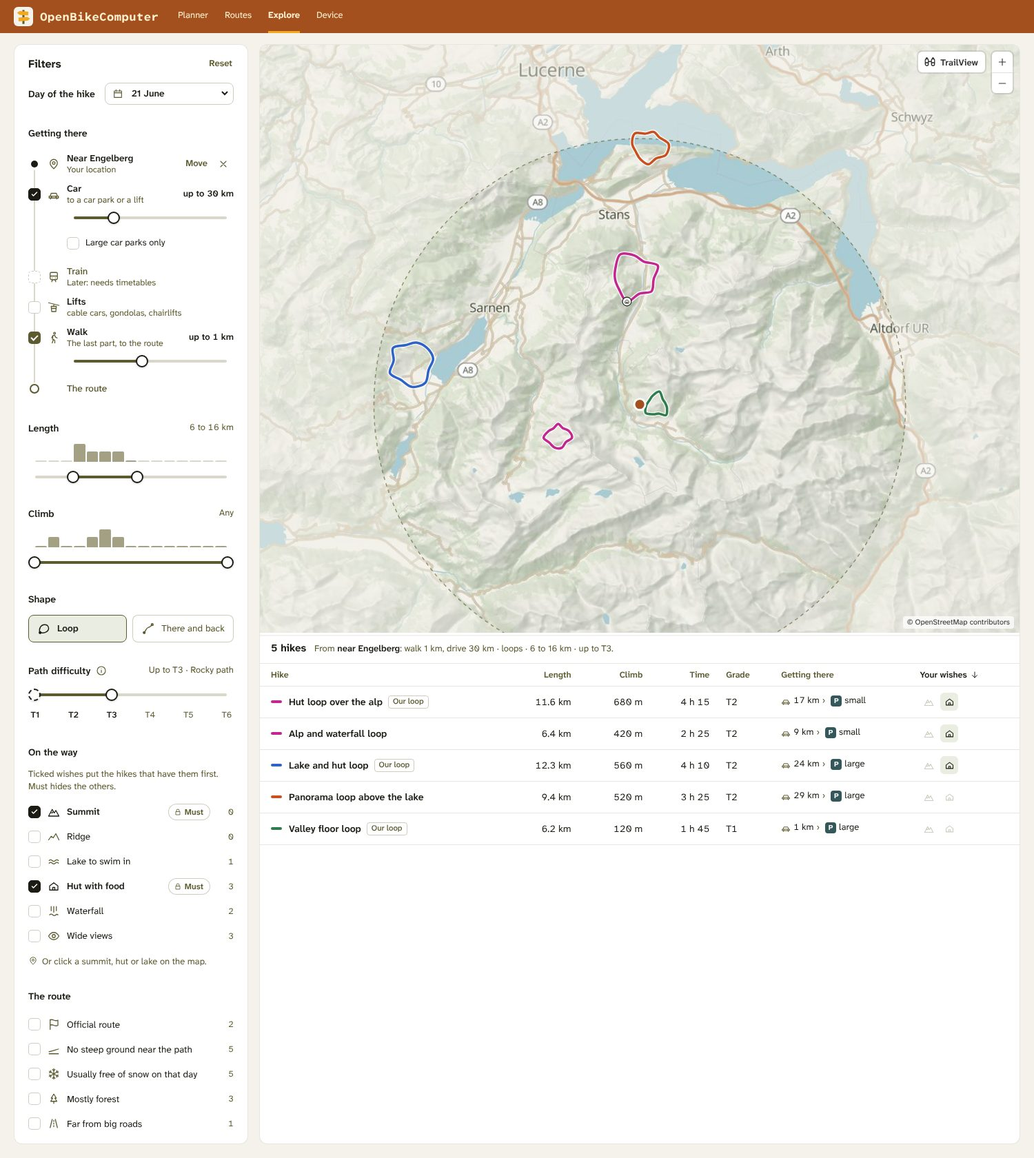
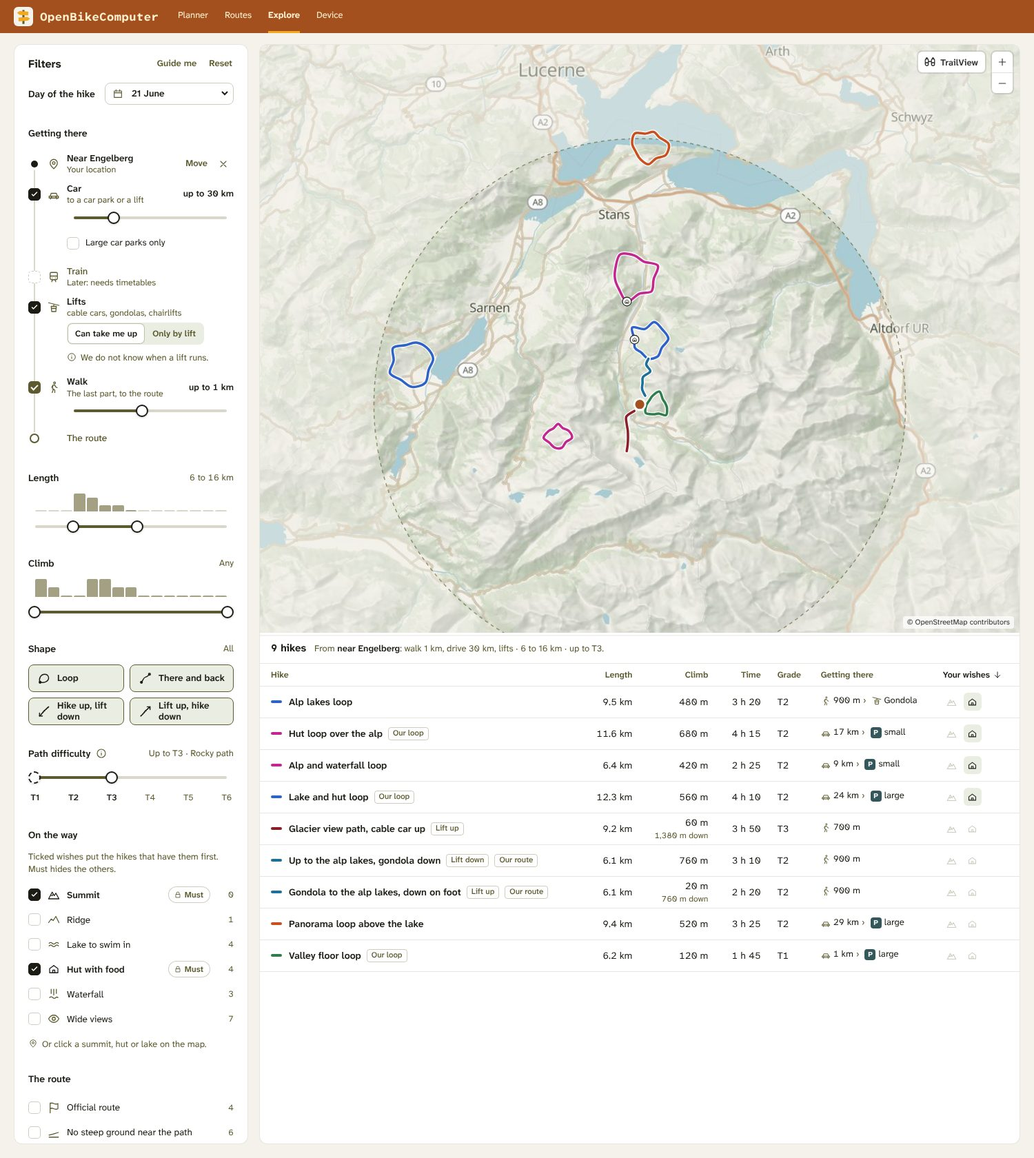
prototype: route shapes with lifts, and a guide that asks the filters one question at a time (#3703)
Claude-Session: https://claude.ai/code/session_011wmjvJHELXXkiSsQom1LXN

diff --git a/builder/web/prototype-explore-search/engine.js b/builder/web/prototype-explore-search/engine.js
@@ -54,7 +54,21 @@ const HIKES = [
     { id: 16, n: 'Alp lakes loop', made: 0, km: 9.5, up: 480, t: 2, alt: 2050, p: 0, asph: 0, f: 'loop lake hut views safe', snow: [day(20, 6), day(15, 10)], x: 603, y: 640, dir: -90, c: '#2f62c9', img: 9 },
     { id: 17, n: 'Glacier view ridge loop', made: 0, km: 11.8, up: 940, t: 4, alt: 2450, p: 0, asph: 0, f: 'loop peak ridge views quiet', snow: [day(5, 7), day(30, 9)], x: 583, y: 725, dir: 100, c: '#0d6e74', img: 8 },
     { id: 18, n: 'Gorge walk, there and back', made: 0, km: 5.0, up: 210, t: 2, alt: 1210, p: 0, asph: 5, f: 'waterfall forest', snow: [day(15, 4), day(15, 11)], x: 612, y: 690, dir: 20, c: '#6a3fb0', img: 5 },
+    // Routes with a lift for one half: the path runs from the valley station to the top station. `same` shares the line of another
+    // record, because one path gives two shapes with different numbers: hike up and ride down, or ride up and hike down.
+    { id: 19, n: 'Up to Alp Oberberg, cable car down', made: 1, shape: 'liftDown', lr: 'l1', km: 5.4, up: 820, down: 30, t: 2, alt: 1650, p: 60, pn: 'Oberberg valley station', asph: 6, f: 'hut views', snow: [day(10, 5), day(5, 11)], x: 468, y: 418, to: [4, 8], c: '#5a7d1e', img: 3 },
+    { id: 20, n: 'Cable car to Alp Oberberg, down on foot', made: 1, shape: 'liftUp', lr: 'l1', same: 19, km: 5.4, up: 30, down: 820, t: 2, alt: 1650, p: 0, asph: 6, f: 'hut views', snow: [day(10, 5), day(5, 11)], x: 468, y: 418, to: [4, 8], c: '#5a7d1e', img: 3 },
+    { id: 21, n: 'Up to the alp lakes, gondola down', made: 1, shape: 'liftDown', lr: 'l2', km: 6.1, up: 760, down: 20, t: 2, alt: 1840, p: 0, asph: 3, f: 'lake views', snow: [day(5, 6), day(25, 10)], x: 600, y: 674, to: [16, 0], c: '#1e6f9a', img: 9 },
+    { id: 22, n: 'Gondola to the alp lakes, down on foot', made: 1, shape: 'liftUp', lr: 'l2', same: 21, km: 6.1, up: 20, down: 760, t: 2, alt: 1840, p: 0, asph: 3, f: 'lake views', snow: [day(5, 6), day(25, 10)], x: 600, y: 674, to: [16, 0], c: '#1e6f9a', img: 9 },
+    { id: 23, n: 'Glacier view path, cable car up', made: 0, shape: 'liftUp', lr: 'l3', km: 9.2, up: 60, down: 1380, t: 3, alt: 2420, p: 0, asph: 0, f: 'views ridge waterfall quiet', snow: [day(1, 7), day(30, 9)], x: 590, y: 688, to: [17, 0], c: '#8c1d2b', img: 8 },
 ];
+// The shapes a rider can accept. The lift shapes count only while Lifts is ticked.
+const SHAPES = {
+    loop: { label: 'Loop', tag: '' },
+    back: { label: 'There and back', tag: 'There and back' },
+    liftDown: { label: 'Hike up, lift down', tag: 'Lift down', lift: true },
+    liftUp: { label: 'Lift up, hike down', tag: 'Lift up', lift: true },
+};
 const HIKE = Object.fromEntries(HIKES.map(h => [h.id, h]));
 const LIFTS = [
     { id: 'l1', name: 'Cable car to Alp Oberberg', short: 'Cable car', valley: { x: 468, y: 418 }, on: [4, 8] },
@@ -94,18 +108,19 @@ const GRADES = [
 ];
 const KM = { step: 2, steps: 15, unit: 'km' }, UP = { step: 100, steps: 15, unit: 'm' };
 for (const h of HIKES) {
-    h.min = Math.round((h.km / 4.2 + h.up / 450) * 12) * 5;
+    h.min = Math.round((h.km / 4.2 + h.up / 450 + (h.down || 0) / 900) * 12) * 5;
     h.time = Math.floor(h.min / 60) + ' h' + (h.min % 60 ? ' ' + String(h.min % 60).padStart(2, '0') : '');
     h.loop = h.f.split(' ').includes('loop');
+    h.shape = h.shape || (h.loop ? 'loop' : 'back');
 }
 
 // ── State ───────────────────────────────────────────────────────────────────
 const fresh = () => ({ date: day(21, 6), point: null, walk: 4, car: false, road: 30, large: false, lift: 0, pin: null,
-    km: [3, 8], up: [0, 15], loop: true, back: false, gradeMin: 1, gradeMax: 3, sort: 'match', wish: { peak: 1, hut: 1 }, selected: null, hover: null });
-const STORE = 'explore-mock-2';
+    km: [3, 8], up: [0, 15], loop: true, back: true, liftDown: true, liftUp: true, gradeMin: 1, gradeMax: 3, sort: 'match', wish: { peak: 1, hut: 1 }, selected: null, hover: null });
+const STORE = 'explore-mock-3';
 let state = fresh();
 try { const saved = JSON.parse(localStorage.getItem(STORE) || 'null'); if (saved && saved.wish) state = { ...fresh(), ...saved, hover: null }; } catch (e) { /* The mock works without storage. */ }
-const QUERY_KEYS = ['date', 'point', 'walk', 'car', 'road', 'large', 'lift', 'pin', 'km', 'up', 'loop', 'back', 'gradeMin', 'gradeMax', 'wish'];
+const QUERY_KEYS = ['date', 'point', 'walk', 'car', 'road', 'large', 'lift', 'pin', 'km', 'up', 'loop', 'back', 'liftDown', 'liftUp', 'gradeMin', 'gradeMax', 'wish'];
 const isFresh = () => { const f = fresh(); return QUERY_KEYS.every(k => JSON.stringify(f[k]) === JSON.stringify(state[k])); };
 let picking = false;
 const reduced = matchMedia('(prefers-reduced-motion: reduce)').matches;
@@ -113,6 +128,7 @@ const reduced = matchMedia('(prefers-reduced-motion: reduce)').matches;
 // ── Lines of the sample hikes, measured once ────────────────────────────────
 function rand(seed) { let x = seed * 9301 + 49297; return () => (x = (x * 9301 + 49297) % 233280) / 233280; }
 function linePath(h) {
+    if (h.same) { h.pts = HIKE[h.same].pts; return HIKE[h.same].d; }
     const r = rand(h.id), pts = [];
     if (h.to) {
         const end = HIKE[h.to[0]].pts[h.to[1]], len = Math.hypot(end[0] - h.x, end[1] - h.y), a0 = Math.atan2(end[1] - h.y, end[0] - h.x), n = 7;
@@ -183,7 +199,7 @@ function access(h, s = state) {
         return out;
     }
     if (!s.point) return [{ kind: 'any', cost: 0 }];
-    const o = s.point, onlyLift = s.lift === 2;
+    const o = s.point, onlyLift = s.lift === 2 && !h.lr;
     if (!onlyLift) {
         const d = walkFrom(h, o);
         if (d <= W) out.push({ kind: 'foot', walk: d, cost: d * 4 });
@@ -192,7 +208,7 @@ function access(h, s = state) {
             if (road <= s.road && (!s.large || isLarge(n.park)) && n.walk <= W) out.push({ kind: 'car', park: n.park, road, walk: n.walk, cost: road + n.walk * 4 });
         }
     }
-    if (s.lift) for (const n of h.lifts) {
+    if (s.lift && !h.lr) for (const n of h.lifts) {
         if (n.walk > W) continue;
         const dv = km(o, n.lift.valley);
         if (dv <= W) out.push({ kind: 'lift', lift: n.lift, by: 'foot', before: dv, walk: n.walk, cost: (dv + n.walk) * 4 + 1 });
@@ -209,9 +225,11 @@ function has(h, key, s = state) {
 }
 const wishLabel = (k, s = state, long) => k === 'reach' ? `Has a T${s.gradeMin} part` : k.startsWith('via:') ? `Passes ${PLACE[k.slice(4)].name}` : (!long && WISH[k].short) || WISH[k].label;
 const wishIcon = k => k === 'reach' ? 'up' : k.startsWith('via:') ? PLACE[k.slice(4)].kind : WISH[k].icon;
+const shapeOk = (h, s = state) => s[h.shape] && (!SHAPES[h.shape].lift || !!s.lift);
+const shapesOn = (s = state) => Object.keys(SHAPES).filter(k => s[k] && (!SHAPES[k].lift || s.lift));
 const top = (range, scale) => range[1] >= scale.steps ? Infinity : range[1] * scale.step;
 function inLimits(h, s, skip) {
-    if (h.t > s.gradeMax || !(h.loop ? s.loop : s.back)) return false;
+    if (h.t > s.gradeMax || !shapeOk(h, s)) return false;
     if (skip !== 'km' && (h.km < s.km[0] * KM.step || h.km > top(s.km, KM))) return false;
     if (skip !== 'up' && (h.up < s.up[0] * UP.step || h.up > top(s.up, UP))) return false;
     return true;
@@ -373,15 +391,27 @@ const GROUPS = {
     km(el) { return rangeGroup(el, 'km', 'Length', KM, ['Shortest length', 'Longest length']); },
     up(el) { return rangeGroup(el, 'up', 'Climb', UP, ['Least climb', 'Most climb']); },
     shape(el) {
+        const loopIco = '<svg class="i" width="20" height="20" viewBox="0 0 24 24" aria-hidden="true"><path d="M5 19c-3-6 1-14 8-14s9 8 4 12-9 2-12 2Z"/><circle cx="5" cy="19" r="1.7" fill="currentColor"/></svg>';
+        const backIco = '<svg class="i" width="20" height="20" viewBox="0 0 24 24" aria-hidden="true"><path d="M5 19c3-3 3-8 7-9s5-3 7-5"/><circle cx="5" cy="19" r="1.7" fill="currentColor"/><circle cx="19" cy="5" r="1.7"/></svg>';
+        // A lift shape: the walked half is solid, the ride is dotted, so the picture says which half the lift takes.
+        const liftIco = up => `<svg class="i" width="20" height="20" viewBox="0 0 24 24" aria-hidden="true"><path d="M4 20c4-2 6-8 9-10s4-4 7-6"/><path d="M4 20 20 4" stroke-dasharray="1.5 2.5"/><path d="${up ? 'M15 4h5v5' : 'M4 15v5h5'}"/></svg>`;
         el.innerHTML = head('Shape') + `<div class="tiles">
-            <button type="button" class="tile" data-shape="loop"><svg class="i" width="20" height="20" viewBox="0 0 24 24" aria-hidden="true"><path d="M5 19c-3-6 1-14 8-14s9 8 4 12-9 2-12 2Z"/><circle cx="5" cy="19" r="1.7" fill="currentColor"/></svg>Loop</button>
-            <button type="button" class="tile" data-shape="back"><svg class="i" width="20" height="20" viewBox="0 0 24 24" aria-hidden="true"><path d="M5 19c3-3 3-8 7-9s5-3 7-5"/><circle cx="5" cy="19" r="1.7" fill="currentColor"/><circle cx="19" cy="5" r="1.7"/></svg>There and back</button></div>`;
+            <button type="button" class="tile" data-shape="loop">${loopIco}Loop</button>
+            <button type="button" class="tile" data-shape="back">${backIco}There and back</button>
+            <button type="button" class="tile lift-shape" data-shape="liftDown">${liftIco(false)}Hike up, lift down</button>
+            <button type="button" class="tile lift-shape" data-shape="liftUp">${liftIco(true)}Lift up, hike down</button></div>
+            <p class="hint" data-lift-hint>${icon('lift', 14)}Tick Lifts in Getting there to also see hikes that ride a lift up or down.</p>`;
         el.addEventListener('click', e => {
             const t = e.target.closest('[data-shape]'); if (!t) return;
-            const k = t.dataset.shape, o = k === 'loop' ? 'back' : 'loop';
-            update(state[k] && !state[o] ? { [k]: false, [o]: true } : { [k]: !state[k] });
+            const k = t.dataset.shape, next = { ...state, [k]: !state[k] };
+            if (!shapesOn(next).length) return toast('Keep at least one shape.');
+            update({ [k]: next[k] });
         });
-        return () => { for (const t of el.querySelectorAll('[data-shape]')) t.setAttribute('aria-pressed', state[t.dataset.shape]); };
+        return () => {
+            for (const t of el.querySelectorAll('[data-shape]')) { t.setAttribute('aria-pressed', state[t.dataset.shape]); t.hidden = SHAPES[t.dataset.shape].lift && !state.lift; }
+            el.querySelector('[data-lift-hint]').hidden = !!state.lift;
+            el.querySelector('.val').textContent = shapesOn().length === (state.lift ? 4 : 2) ? 'All' : '';
+        };
     },
     grade: gradeGroup,
     way(el) {
@@ -462,13 +492,75 @@ function mountFilters(el) {
     }
 }
 
+// ── The guide: the same filter groups, one question at a time ──────────────
+// The guide mounts its own copy of each group, so an answer sets the same state as the filter column, and the map and the
+// results change while the rider answers. A rider can skip any question, go back, or close the guide at any step.
+const STEPS = [
+    { groups: ['day'], q: 'When do you go?', why: 'The day decides which hikes are usually free of snow.' },
+    { groups: ['journey'], q: 'How do you get to the start?', why: 'Set where you start, then tick each way you are happy to travel.' },
+    { groups: ['shape'], q: 'Which shapes are fine?', why: 'Pick every shape you would walk. A there-and-back hike counts its length and climb both ways.' },
+    { groups: ['km', 'up'], q: 'How long, and how much climb?', why: 'The bars show how many hikes each step holds, inside your other answers.' },
+    { groups: ['grade'], q: 'How hard may the path be?', why: 'The right handle is the hardest grade you accept. Move the left handle to ask for a harder part. Hover or tap a grade to see it.' },
+    { groups: ['way'], q: 'What would make it a good day?', why: 'Pick what you hope to pass on the way.' },
+    { groups: ['route'], q: 'Anything about the route itself?', why: 'For example, a route that is usually free of snow on your day.' },
+];
+function mountGuide(side, filters, opener) {
+    const g = document.createElement('section');
+    g.className = 'guide'; g.hidden = true; g.setAttribute('aria-label', 'Plan your hike, one question at a time');
+    g.innerHTML = `<div class="guide-top"><span class="guide-step" aria-live="polite"></span><span class="guide-dots" aria-hidden="true">${STEPS.map(() => '<i></i>').join('')}</span><button type="button" class="close" data-guide-close aria-label="Close the guide">${icon('close', 16)}</button></div>
+        <div class="guide-body scroll">${STEPS.map((st, i) => `<div class="guide-page" data-page="${i}" hidden><h3>${st.q}</h3><p class="hint">${st.why}</p><div class="filters"></div></div>`).join('')}</div>
+        <div class="guide-foot"><button type="button" class="text-button" data-guide-back>Back</button><span class="guide-count"></span><button type="button" class="text-button" data-guide-skip>Skip</button><button type="button" class="button primary" data-guide-next></button></div>`;
+    side.append(g);
+    STEPS.forEach((st, i) => {
+        const box = g.querySelector(`[data-page="${i}"] .filters`);
+        for (const name of st.groups) { const el = document.createElement('section'); el.className = 'group'; el.dataset.group = name; box.append(el); syncs.push(GROUPS[name](el)); }
+    });
+    // The offer at the top of the column, while the filters hold nothing of the rider's own.
+    const offer = document.createElement('div');
+    offer.className = 'guide-offer';
+    offer.innerHTML = `<p><b>New search?</b> Seven short questions set the filters for you. Skip any of them.</p><button type="button" class="button small" data-guide-open>${icon('walk', 14)}Guide me</button>`;
+    filters.prepend(offer);
+    let step = -1;
+    const show = i => {
+        step = i; g.hidden = i < 0; side.classList.toggle('guided', i >= 0);
+        if (i < 0) return opener.focus();
+        for (const p of g.querySelectorAll('.guide-page')) p.hidden = +p.dataset.page !== i;
+        [...g.querySelector('.guide-dots').children].forEach((dot, j) => dot.className = j < i ? 'done' : j === i ? 'now' : '');
+        g.querySelector('.guide-step').textContent = `Question ${i + 1} of ${STEPS.length}`;
+        g.querySelector('[data-guide-back]').disabled = i === 0;
+        g.querySelector('[data-guide-skip]').hidden = i === STEPS.length - 1;
+        g.querySelector('.guide-body').scrollTop = 0;
+        sync(find());
+        g.querySelector('h3:not([hidden])') && g.querySelector(`[data-page="${i}"] h3`).focus({ preventScroll: true });
+    };
+    const sync = found => {
+        offer.hidden = !isFresh();
+        if (step < 0) return;
+        g.querySelector('.guide-count').textContent = `${countText(found.length)} fit so far`;
+        g.querySelector('[data-guide-next]').textContent = step === STEPS.length - 1 ? `Show ${countText(found.length)}` : 'Next';
+    };
+    for (const h of g.querySelectorAll('h3')) h.tabIndex = -1;
+    syncs.push(sync);
+    document.addEventListener('click', e => {
+        if (e.target.closest('[data-guide-open]')) return show(0);
+        if (step < 0 || !g.contains(e.target)) return;
+        if (e.target.closest('[data-guide-close]')) return show(-1);
+        if (e.target.closest('[data-guide-back]')) return show(Math.max(0, step - 1));
+        if (e.target.closest('[data-guide-skip]')) return show(step + 1);
+        if (e.target.closest('[data-guide-next]')) return show(step === STEPS.length - 1 ? -1 : step + 1);
+    });
+    g.addEventListener('keydown', e => { if (e.key === 'Escape' && !e.defaultPrevented) show(-1); });
+    return { open: () => show(0) };
+}
+
 // ── One plain line that says what the search holds ─────────────────────────
 function queryHtml() {
     const parts = [];
     if (state.pin) parts.push(`From <b>${pinName(state, true)}</b>, walk ${dist(WALK[state.walk])}`);
     else if (state.point) parts.push(`From <b>near ${townNear(state.point)}</b>: ` + [`walk ${dist(WALK[state.walk])}`, state.car && `drive ${state.road} km`, state.lift === 2 ? 'by lift only' : state.lift && 'lifts'].filter(Boolean).join(', '));
     else parts.push('In the map view');
-    parts.push(state.loop && state.back ? 'loops or there and back' : state.loop ? 'loops' : 'there and back');
+    const shapes = shapesOn();
+    if (shapes.length < (state.lift ? 4 : 2)) parts.push(shapes.map(k => SHAPES[k].label.toLowerCase()).join(' or '));
     if (state.km[0] > 0 || state.km[1] < 15) parts.push(rangeText(state.km, KM).toLowerCase());
     if (state.up[0] > 0 || state.up[1] < 15) parts.push(rangeText(state.up, UP).toLowerCase() + ' up');
     parts.push('up to T' + state.gradeMax);
@@ -498,11 +590,20 @@ function emptyHtml() {
         if (!state.lift) tries.push(['Take lifts', { lift: 1 }]);
     }
     if (state.pin) tries.push(['Unpin the start', { pin: null }]);
+    for (const k of Object.keys(SHAPES)) if (!state[k] && (!SHAPES[k].lift || state.lift)) tries.push([`${SHAPES[k].label} too`, { [k]: true }]);
     const ways = tries.map(([text, change]) => [text, change, find({ ...state, ...change }).length]).filter(t => t[2]);
     emptyTries = ways.map(t => t[1]);
     return `<div class="empty"><strong>No hike fits all of this.</strong>${ways.length ? `<span>One change would help:</span><div>${ways.map(([text, , n], i) => `<button type="button" class="button small" data-try="${i}">${text}<span class="n">${countText(n)}</span></button>`).join('')}</div>` : '<span>Widen the length or the climb.</span>'}<button type="button" class="text-button" data-reset>Reset the filters</button></div>`;
 }
 const tagsHtml = r => [...r.met.map(k => `<span class="tag">${icon('check', 12)}${wishLabel(k)}</span>`), ...r.missed.map(k => `<span class="tag no">${icon('close', 11)}${wishLabel(k)}</span>`)].join('');
+// What the shape means for the rider, with the numbers that the table does not show.
+function shapeText(h) {
+    const lift = h.lr && LIFT[h.lr].short.toLowerCase();
+    if (h.shape === 'back') return `There and back, ${fmt(Math.round(h.km / 2 * 10) / 10)} km each way; length and climb count both ways`;
+    if (h.shape === 'liftDown') return `Hike up ${fmt(h.up)} m, then the ${lift} down; park at the valley station`;
+    if (h.shape === 'liftUp') return `The ${lift} up, then hike down ${fmt(h.down)} m; park at the valley station`;
+    return 'Loop';
+}
 function detailHtml(r) {
     const h = r.h, prof = profilePath(h), safe = has(h, 'safe'), year = h.snow[0] === 1 && h.snow[1] === 365, a = r.acc[0];
     const trail = a.park || a.lift ? a : !state.pin && a.kind === 'any' ? (parkAt(h) && { park: parkAt(h).park }) || (liftAt(h) && { lift: liftAt(h).lift }) : null;
@@ -510,7 +611,7 @@ function detailHtml(r) {
     return `<div class="more-box">
         <div class="cover"><img src="img/h${h.img || h.id}.webp" alt="" loading="lazy" onerror="this.hidden=true"></div>
         <div class="col">
-            <p class="kind">${h.loop ? 'Loop' : 'There and back'} · ${h.made ? 'Our loop, made from signed hiking paths' : 'Official hiking route'}</p>
+            <p class="kind">${shapeText(h)} · ${h.made ? `Our ${h.loop ? 'loop' : 'route'}, made from signed hiking paths` : 'Official hiking route'}</p>
             <p class="how">${accessText(a, h)}.</p>
             ${pinFrom ? `<button type="button" class="button small" data-pin='${JSON.stringify(pinFrom)}'>${icon('pin', 14)}Hikes from this ${pinFrom.kind === 'park' ? 'car park' : 'top station'}</button>` : ''}
             ${r.met.length + r.missed.length ? `<div class="tags">${tagsHtml(r)}</div>` : ''}
@@ -626,6 +727,7 @@ function renderMap(found) {
         if (a.park) parks.add(a.park.id);
         if (a.lift) lifts.add(a.lift.id);
         if (a.kind === 'any') { const n = parkAt(r.h); if (n) parks.add(n.park.id); for (const l of r.h.lifts) if (l.walk <= W) lifts.add(l.lift.id); }
+        if (r.h.lr) lifts.add(r.h.lr);
     }
     const hotAcc = hotRow?.acc[0], hotTrail = hotAcc && (hotAcc.park?.id || hotAcc.lift?.id || (hotAcc.kind === 'any' && (parkAt(hotRow.h)?.park.id || liftAt(hotRow.h)?.lift.id)));
     const level = (id, used) => state.pin?.id === id ? 'pin' : hotTrail === id ? 'hot' : used ? 'quiet' : 'hide';
@@ -718,6 +820,6 @@ function fitMap(found, at, r) {
 
 return {
     get state() { return state; }, update, render, reset, isFresh, set page(p) { page = { ...page, ...p }; },
-    icon, fmt, accessSteps, wishLabel, wishIcon, niceWishes, queryHtml, countText, mountFilters, mountMap, detailHtml, hover, emptyHtml,
+    icon, fmt, shapeTag: h => SHAPES[h.shape].tag, accessSteps, wishLabel, wishIcon, niceWishes, queryHtml, countText, mountFilters, mountGuide, mountMap, detailHtml, hover, emptyHtml,
 };
 })();

diff --git a/builder/web/prototype-explore-search/index.html b/builder/web/prototype-explore-search/index.html
@@ -16,7 +16,7 @@
 <main class="page">
     <h1 class="sr">Explore day hikes</h1>
     <section class="side" aria-labelledby="filters-title">
-        <div class="side-top"><h2 id="filters-title">Filters</h2><button type="button" class="text-button" id="reset">Reset</button></div>
+        <div class="side-top"><h2 id="filters-title">Filters</h2><span class="side-acts"><button type="button" class="text-button" id="guide">Guide me</button><button type="button" class="text-button" id="reset">Reset</button></span></div>
         <div class="scroll"><div class="filters" id="filters"></div></div>
         <button type="button" class="button primary show-results" id="show"></button>
     </section>
@@ -47,6 +47,8 @@
 const $ = id => document.getElementById(id);
 const { icon, fmt } = OBC;
 OBC.mountFilters($('filters'));
+const guide = OBC.mountGuide(document.querySelector('.side'), $('filters'), $('guide'));
+$('guide').addEventListener('click', guide.open);
 OBC.mountMap($('map'));
 for (const b of document.querySelectorAll('[data-sort]')) b.insertAdjacentHTML('beforeend', icon('down', 14));
 
@@ -78,8 +80,8 @@ OBC.page = {
         $('rows').innerHTML = found.length ? found.map(r => {
             const h = r.h, open = s.selected === h.id;
             return `<tr class="hike-row${open ? ' open' : ''}" data-id="${h.id}"${s.hover === h.id ? ' data-hover' : ''}>
-                <td><button type="button" class="name" aria-expanded="${open}"><span class="swatch" style="--c:${h.c}"></span><span class="nm"><strong>${h.n}</strong>${h.made ? '<span class="ours">Our loop</span>' : ''}<span class="sub"><span>T${h.t} · ${h.time}</span><span class="acc">${steps(r)}</span></span></span></button></td>
-                <td class="num">${h.km} km<span class="up">${fmt(h.up)} m up</span></td><td class="num c-climb">${fmt(h.up)} m</td><td class="num c-time">${h.time}</td><td class="c-grade">T${h.t}</td>
+                <td><button type="button" class="name" aria-expanded="${open}"><span class="swatch" style="--c:${h.c}"></span><span class="nm"><strong>${h.n}</strong>${OBC.shapeTag(h) ? `<span class="ours">${OBC.shapeTag(h)}</span>` : ''}${h.made ? `<span class="ours">${h.loop ? 'Our loop' : 'Our route'}</span>` : ''}<span class="sub"><span>T${h.t} · ${h.time}</span><span class="acc">${steps(r)}</span></span></span></button></td>
+                <td class="num">${h.km} km<span class="up">${fmt(h.up)} m up</span></td><td class="num c-climb">${fmt(h.up)} m${h.shape === 'liftUp' ? `<span class="down">${fmt(h.down)} m down</span>` : ''}</td><td class="num c-time">${h.time}</td><td class="c-grade">T${h.t}</td>
                 <td class="c-acc"><span class="acc">${steps(r)}</span></td><td class="c-wish">${wishCells(r)}</td></tr>${open ? `<tr class="more"><td colspan="7">${OBC.detailHtml(r)}</td></tr>` : ''}`;
         }).join('') : `<tr><td colspan="7">${OBC.emptyHtml()}</td></tr>`;
         if (s.selected !== null) reveal(s.selected);

diff --git a/builder/web/prototype-explore-search/shared.css b/builder/web/prototype-explore-search/shared.css
@@ -355,3 +355,33 @@ tr.more td { padding: 0 16px 16px; border-bottom: 1px solid var(--line); backgro
 @media (prefers-reduced-motion: reduce) {
     *, *::before, *::after { animation-duration: 1ms !important; transition-duration: 1ms !important; }
 }
+
+/* The guide covers the filter column while the map and the results stay live beside it. */
+.side { position: relative; }
+.side-acts { display: flex; gap: 2px; }
+.guide-offer { display: flex; flex-direction: column; align-items: flex-start; gap: 8px; margin: 4px 0 -8px; padding: 12px 14px; border-radius: 10px; background: var(--parchment-2); }
+.guide-offer p { margin: 0; font-size: 13px; line-height: 1.45; }
+.guide { position: absolute; z-index: 6; inset: -1px; display: flex; flex-direction: column; border: 1px solid var(--line-strong); border-radius: 12px; background: var(--panel); box-shadow: var(--shadow); animation: guide-in 220ms var(--ease); }
+.guide[hidden] { display: none; }
+@keyframes guide-in { from { opacity: 0; transform: translateY(8px); } }
+.guide-top { display: flex; align-items: center; gap: 12px; padding: 14px 14px 4px 20px; }
+.guide-step { color: var(--ink-soft); font-size: 12.5px; font-weight: 600; }
+.guide-dots { display: flex; gap: 5px; margin-right: auto; }
+.guide-dots i { width: 7px; height: 7px; border-radius: 50%; background: var(--parchment-3); transition: background 160ms; }
+.guide-dots i.done { background: var(--ink-soft); }
+.guide-dots i.now { background: var(--rust); }
+.guide-body { flex: 1; min-height: 0; overflow-y: auto; padding: 8px 20px 24px; }
+.guide-page h3 { margin: 6px 0 6px; font-size: 20px; font-weight: 700; line-height: 1.25; outline: none; }
+.guide-page > .hint { margin-bottom: 18px; }
+.guide-page .group > .head h2 { display: none; }
+.guide-page .group > .head:not(:has(select)):has(.val:empty) { display: none; }
+.c-climb .down { display: block; color: var(--ink-soft); font-size: 12px; }
+.guide-page .filters { gap: 24px; }
+.guide-foot { display: flex; align-items: center; gap: 6px; padding: 12px 14px; border-top: 1px solid var(--line); }
+.guide-count { margin-right: auto; color: var(--ink-soft); font-size: 13px; font-variant-numeric: tabular-nums; }
+.guide-foot .text-button:disabled { visibility: hidden; }
+.tile.lift-shape { white-space: normal; line-height: 1.2; }
+@media (max-width: 760px) {
+    .guide { position: fixed; inset: auto 0 0 0; max-height: 88vh; border-radius: 16px 16px 0 0; }
+}
+@media (prefers-reduced-motion: reduce) { .guide { animation: none; } }

diff --git a/builder/web/prototype-explore-search/README.md b/builder/web/prototype-explore-search/README.md
@@ -11,7 +11,9 @@ Without a checkout, open the hosted copy of this branch:
 https://htmlpreview.github.io/?https://github.com/timohueser/OpenBikeComputer/blob/prototype/explore-search/builder/web/prototype-explore-search/index.html
 
 Without a browser, read the screenshots in `screenshots/`: the start (1500 px wide), a row opened in
-place, every filter with a start point and the car on, and a phone (390 px).
+place, every filter with a start point, the car and lifts on, a phone (390 px), the guide at the
+questions "How do you get to the start?" and "Which shapes are fine?", a row of a route that rides the
+lift up, and the guide on a phone.
 
 The mock is older than some decisions of #3703. Where the two differ, the issue wins; its section
 "Where the mock differs from the design" lists each difference.
@@ -35,6 +37,8 @@ The mock is older than some decisions of #3703. Where the two differ, the issue 
 | One walk limit from wherever the rider starts; the ways to reach a route | `engine.js`, `access()` |
 | Limits and wishes (off, nice, must); best-match order | `engine.js`, `find()`, `ORDER` |
 | Path difficulty as one range: upper end a limit, lower end a wish | `engine.js`, `gradeGroup()` |
+| Shapes: loop, there and back, hike up and lift down, lift up and hike down; the rider accepts several; the lift shapes show only while Lifts is ticked | `engine.js`, `SHAPES`, `GROUPS.shape`, `shapeText()` |
+| The guide: the same filter groups, one question at a time, over the filter column; offered while the filters are fresh and by "Guide me" | `engine.js`, `STEPS`, `mountGuide()` |
 | The empty list names the change that helps, with its count | `engine.js`, `emptyHtml()` |
 | Map rules: which markers show, pins, "routes that pass here" | `engine.js`, `renderMap()` |
 
